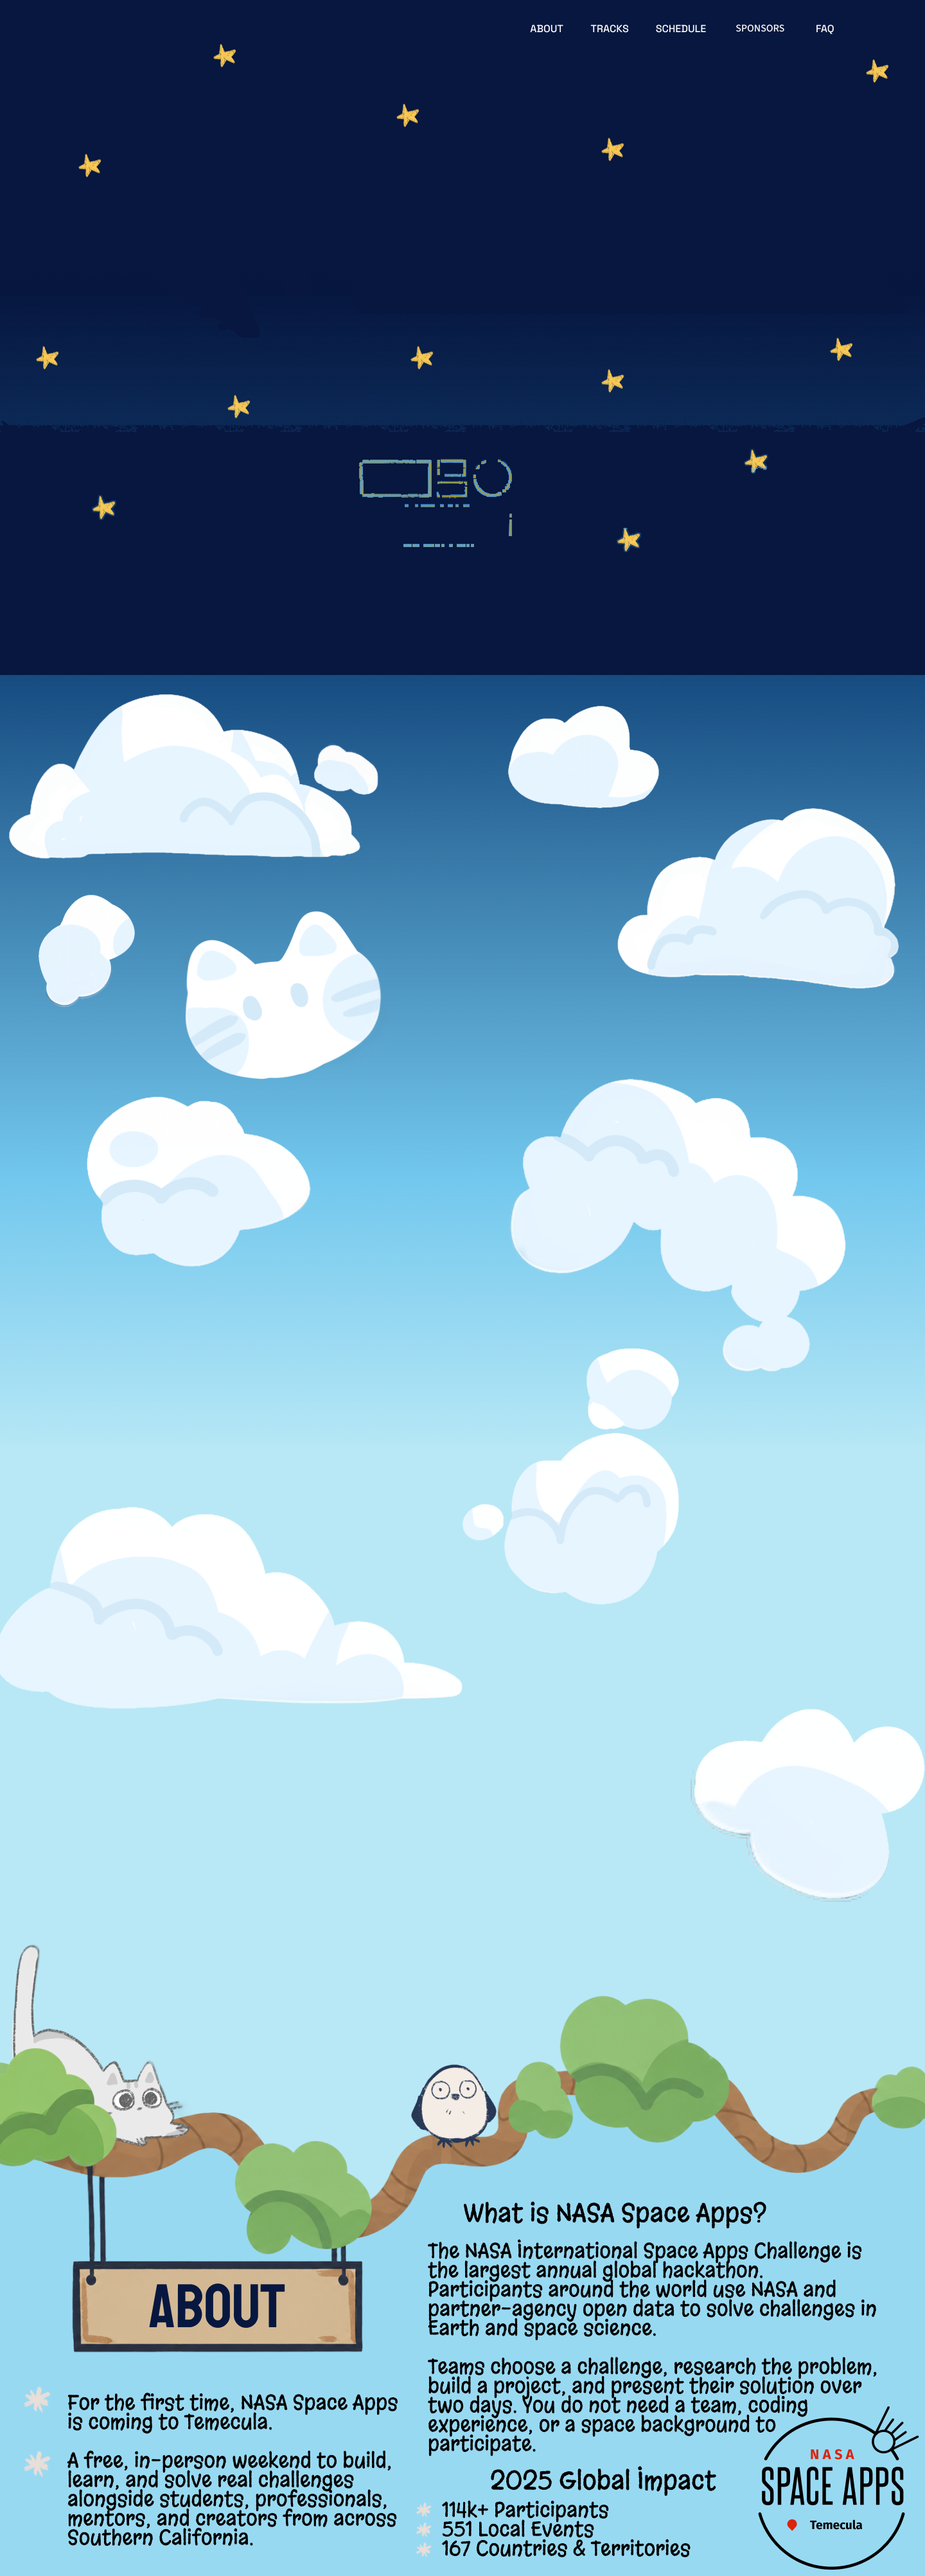
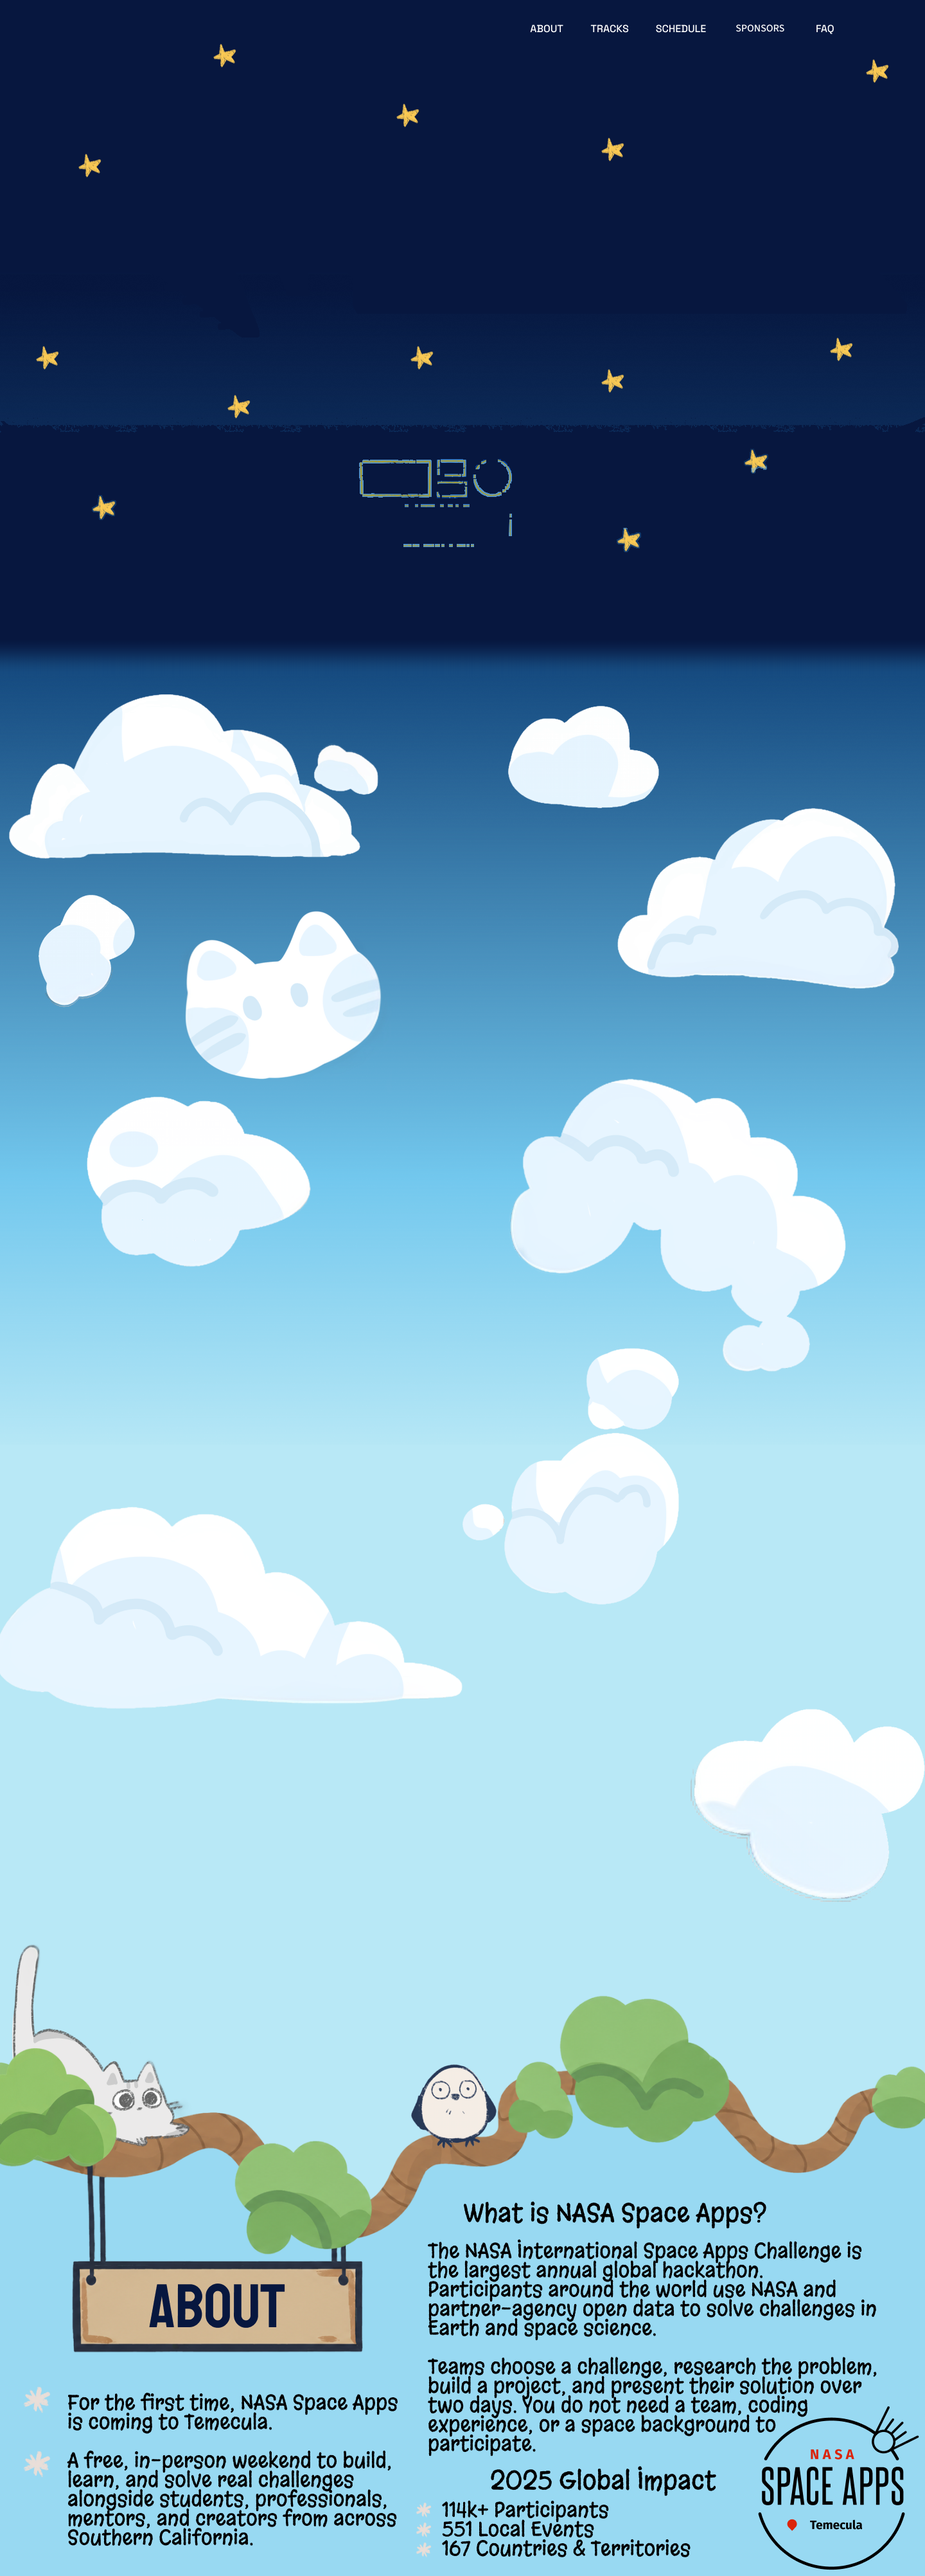
fix dandelions

Changed region(s): [[0.0, 0.2496, 1.0, 0.2808]]

diff --git a/src/layout/viewport.ts b/src/layout/viewport.ts
@@ -13,7 +13,16 @@ function readMetrics(): ViewportMetrics {
     return { layoutWidth: FRAME_WIDTH, layoutScale: 1 };
   }
 
-  const layoutWidth = window.innerWidth;
+  // iOS Safari can report the pre-rotation innerWidth during an orientation
+  // change and sometimes never fires `resize` afterward, leaving navy bars
+  // down the sides in landscape. visualViewport.width always reflects the
+  // actual visible width (rotation, dynamic toolbar, pinch zoom), so prefer
+  // it whenever it differs from innerWidth. Width-only: we never touch
+  // height/offset, so address-bar collapse can't make the canvas counter-pan.
+  const vv = window.visualViewport;
+  const inner = window.innerWidth;
+  const layoutWidth =
+    vv && vv.width > 0 && Math.abs(vv.width - inner) > 0.5 ? vv.width : inner;
   const layoutScale = layoutWidth / FRAME_WIDTH;
 
   return { layoutWidth, layoutScale };
@@ -23,15 +32,43 @@ export function useViewportMetrics(): ViewportMetrics {
   const [metrics, setMetrics] = useState(() => readMetrics());
 
   useEffect(() => {
-    const update = () => setMetrics(readMetrics());
+    const timers: number[] = [];
+
+    // Return the previous object when nothing changed so React skips re-render
+    // (e.g. visualViewport fires on address-bar collapse where width is stable).
+    const update = () => {
+      setMetrics((prev) => {
+        const next = readMetrics();
+        return prev.layoutWidth === next.layoutWidth &&
+          prev.layoutScale === next.layoutScale
+          ? prev
+          : next;
+      });
+    };
+
+    const onOrientationChange = () => {
+      // innerWidth is stale synchronously during `orientationchange`; re-measure
+      // after the rotation settles (some browsers never fire `resize`).
+      timers.push(window.setTimeout(update, 250));
+      timers.push(window.setTimeout(update, 600));
+    };
 
     update();
     window.addEventListener("resize", update);
-    window.addEventListener("orientationchange", update);
+    window.addEventListener("orientationchange", onOrientationChange);
+
+    const vv = window.visualViewport;
+    if (vv) {
+      vv.addEventListener("resize", update);
+    }
 
     return () => {
+      timers.forEach((id) => window.clearTimeout(id));
       window.removeEventListener("resize", update);
-      window.removeEventListener("orientationchange", update);
+      window.removeEventListener("orientationchange", onOrientationChange);
+      if (vv) {
+        vv.removeEventListener("resize", update);
+      }
     };
   }, []);
 

diff --git a/src/motion/AboutWindParticles.tsx b/src/motion/AboutWindParticles.tsx
@@ -43,7 +43,9 @@ const ABOUT_COPY_BOTTOM = 3650;
 const GRASS_BANDS: { top: number; bottom: number; kind: ParticleKind }[] = [
   { top: 2920, bottom: 5750, kind: "leaf" },
   { top: SECTION_TOP.tracks, bottom: SECTION_TOP.schedule, kind: "dandelion" },
-  { top: SECTION_TOP.schedule, bottom: 9350, kind: "dandelion" },
+  // Schedule grass ends at ~comp 9140 where the dirt/underground transition
+  // starts — cap above it so dandelions never spawn in the dirt.
+  { top: SECTION_TOP.schedule, bottom: 9100, kind: "dandelion" },
 ];
 
 function rand(min: number, max: number): number {

diff --git a/src/layout/frame.ts b/src/layout/frame.ts
@@ -33,9 +33,11 @@ export const SLICES = [
     zIndex: 0,
   },
   {
+    // slice03 has one extra row prepended (copy of the tracks slice's last row)
+    // so this join gets a true 1px overlap like joins at 4007 and 12858.
     src: slices.sponsorsUnderground,
-    top: SLICE_JOINS[2] - SLICE_SEAM_OVERLAP,
-    height: 3364,
+    top: SLICE_JOINS[2] - SLICE_SEAM_OVERLAP - 1,
+    height: 3365,
     zIndex: 1,
   },
   {

diff --git a/src/data/assets.ts b/src/data/assets.ts
@@ -1,6 +1,6 @@
 // Composite Figma slices — visual source of truth for the 1440 desktop canvas.
 // Bump SLICE_CACHE when restoring PNGs so browsers drop cached patched versions.
-const SLICE_CACHE = "v8-cockpit-goggles";
+const SLICE_CACHE = "v10-sponsors-overlap";
 
 // Vite rewrites URLs in index.html and CSS at build time, but NOT runtime
 // <img src> paths. Prefix with import.meta.env.BASE_URL so assets resolve

diff --git a/scripts/feather-slice-edge.py b/scripts/feather-slice-edge.py
@@ -1,0 +1,46 @@
+"""Feather the hard navy-to-sky edge in the patched hero slice.
+
+The patched 01-hero-about.png repaints the hero sky as solid navy (#07173f)
+down to y=EDGE, where it cuts off into the original lighter sky. Downscaled,
+that 1px hard boundary renders as a visible dark line above the clouds.
+This blends the navy into the sky color of each column over FEATHER rows,
+restoring a smooth gradient like the original artwork.
+"""
+
+from pathlib import Path
+
+import numpy as np
+from PIL import Image
+
+ROOT = Path(__file__).resolve().parents[1]
+SLICE = ROOT / "public/assets/slices/01-hero-about.png"
+
+NAVY = np.array([7, 23, 63])  # #07173f
+EDGE = 1050  # first row of original (un-darkened) sky
+FEATHER = 60  # rows [EDGE-FEATHER, EDGE) blend navy -> sky
+
+
+def main() -> None:
+    arr = np.array(Image.open(SLICE).convert("RGB")).astype(np.int16)
+    start = EDGE - FEATHER
+    band = arr[start:EDGE]
+
+    # Per-column blend target = sky color just below the edge (median of 4 rows).
+    target = np.median(arr[EDGE : EDGE + 4], axis=0)
+
+    # Smoothstep 0->1 across the feather band.
+    t = np.linspace(0.0, 1.0, FEATHER)
+    s = t * t * (3 - 2 * t)
+
+    # Blend only pixels that are still the navy repaint, so art stays untouched.
+    navy_mask = np.abs(band - NAVY).max(axis=2) <= 24
+    weight = (s[:, None] * navy_mask)[:, :, None]
+    blended = band * (1 - weight) + target * weight
+    band[:] = np.where(navy_mask[:, :, None], blended, band)
+
+    Image.fromarray(arr.astype(np.uint8)).save(SLICE)
+    print(f"feathered rows {start}..{EDGE - 1} of {SLICE.name}")
+
+
+if __name__ == "__main__":
+    main()
